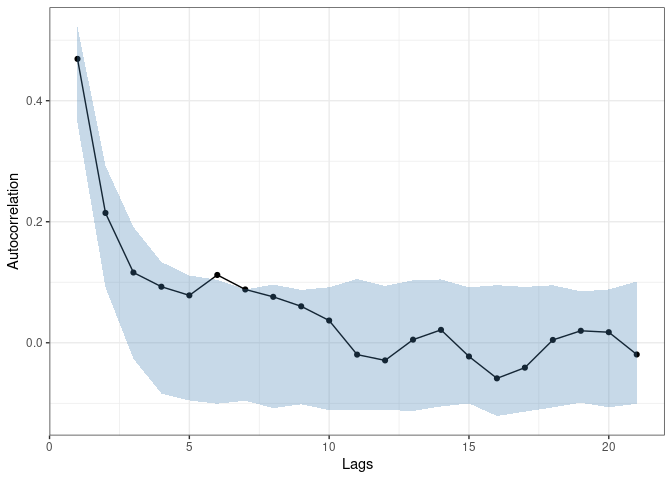
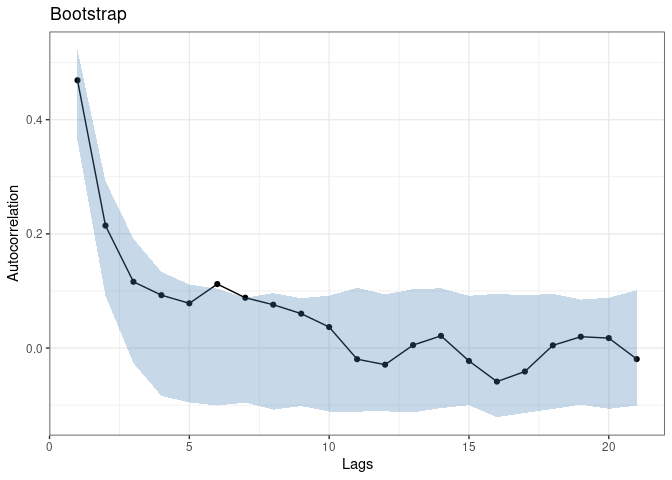
Add summary function.

diff --git a/README.md b/README.md
@@ -53,12 +53,13 @@ length <- 500
 
 pars <- c(1, 0.4)
 set.seed(12345)
-data <- cocoSim(order = 1, type = "Poisson", par = pars, length = length)
+data <- cocoSim(order = 1, type = "Poisson", par = pars,
+                length = length)
 coco <- cocoReg(order = 1, type = "Poisson", data = data$data)
 #> Registered S3 method overwritten by 'quantmod':
 #>   method            from
 #>   as.zoo.data.frame zoo
-cocoSummary(coco)
+summary(coco)
 #> Coefficients:
 #>          Estimate   Std. Error
 #> lambda     0.9427       0.0678
@@ -89,7 +90,8 @@ library(coconots)
 length <- 500
 
 pars <- c(1, 0.4)
-data <- cocoSim(order = 1, type = "Poisson", par = pars, length = length, julia = TRUE, julia_seed = 123)
+data <- cocoSim(order = 1, type = "Poisson", par = pars, length = length,
+                julia = TRUE, julia_seed = 123)
 coco <- cocoReg(order = 1, type = "Poisson", data = data, julia = TRUE)
 ```
 
@@ -99,7 +101,10 @@ We provide different tools for model assessment. One can even use the
 RCPP implementation for the regression and do model assessment with the
 Julia implementation. If this is desired, one needs to specify in the
 output of the regression that it should be Julia compatible. Note that
-this is not necessary if the Julia option in the regression is true.
+this is not necessary if the Julia option in the regression is true. For
+the probability integral transform histogram, the histigram is plotted
+automatically. For the bootstrap and the forecast, the plots can be used
+using R’s plot function.
 
 ``` r
 library(coconots)
@@ -108,7 +113,8 @@ length <- 500
 pars <- c(1, 0.4)
 set.seed(12345)
 data <- cocoSim(order = 1, type = "Poisson", par = pars, length = length)
-coco <- cocoReg(order = 1, type = "Poisson", data = data$data, julia_installed=TRUE)
+coco <- cocoReg(order = 1, type = "Poisson", data = data$data,
+                julia_installed=TRUE)
 (scores <- cocoScore(coco, julia = TRUE))
 #> $log.score
 #> [1] 1.501935
@@ -124,15 +130,15 @@ pit <- cocoPit(coco, julia = TRUE)
 <img src="man/figures/README-example_assessment-1.png" width="100%" />
 
 ``` r
-boot_plot <- cocoBoot(coco, plot_bootstrap = TRUE, julia = TRUE)
-boot_plot$plot + ggplot2::theme_bw() + ggplot2::xlab("Lags") + ggplot2::ylab("Autocorrelation")
+boot <- cocoBoot(coco, julia = TRUE)
+plot(boot)
 ```
 
 <img src="man/figures/README-example_assessment-2.png" width="100%" />
 
 ``` r
-forecast <- cocoForecast(coco, plot = TRUE, julia = TRUE)
-forecast$plot
+forecast <- cocoForecast(coco, julia = TRUE)
+plot(forecast)
 ```
 
 <img src="man/figures/README-example_assessment-3.png" width="100%" />
